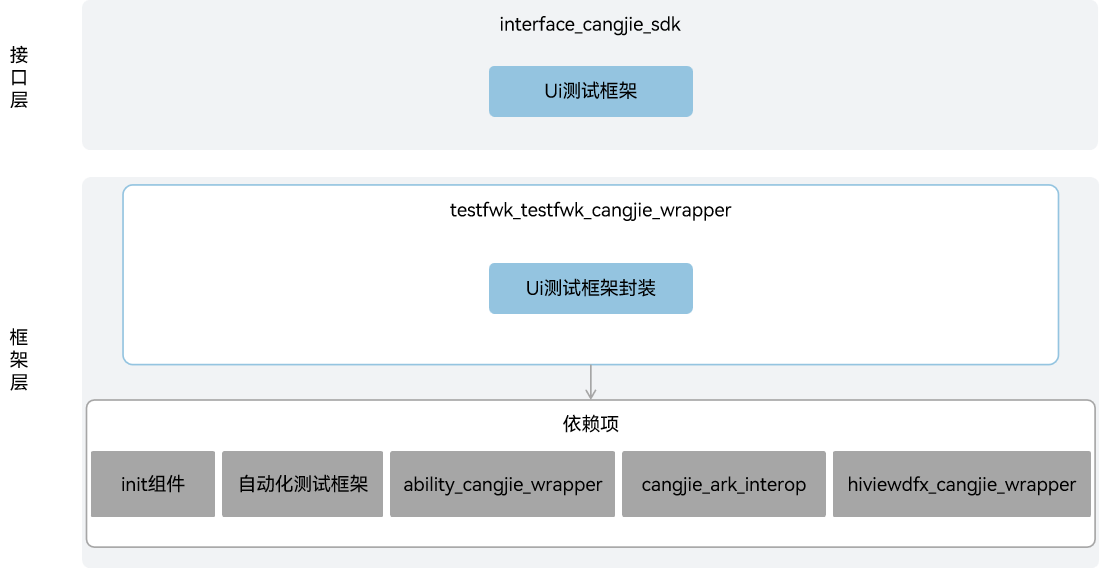
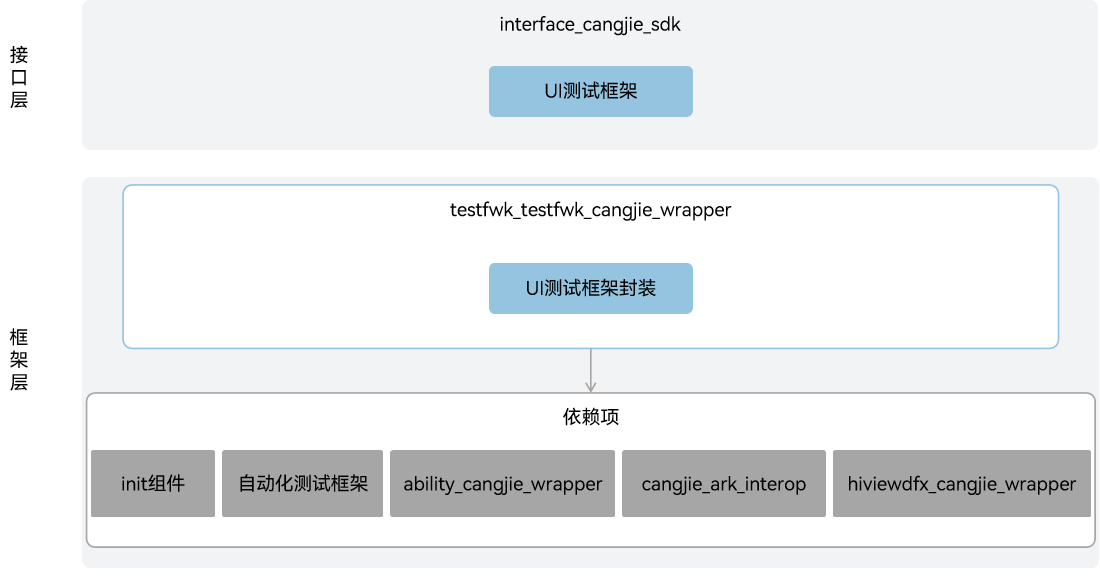
fix readme

diff --git a/README_zh.md b/README_zh.md
@@ -2,7 +2,7 @@
 
 ## 简介
 
-测试框架仓颉封装是在OpenHarmony上面向开发者使用仓颉语言进行应用开发时提供的一套Ui测试框架框架。当前开放的测试框架仓颉封装仅支持standard设备。
+测试框架仓颉封装是在OpenHarmony上面向开发者使用仓颉语言进行应用开发时提供的一套UI测试框架。当前开放的测试框架仓颉封装仅支持standard设备。
 
 ## 系统架构
 
@@ -13,21 +13,21 @@
 如架构图所示：
 
 接口层：
-- Ui测试框架：面向开发者提供查找和操作界面控件的能力，支持用户开发基于界面操作的自动化测试脚本。
-  - Driver: Ui测试的入口，面向开发者提供检查控件存在性、查找控件，注入按键，单击坐标，滑动控件，手势操作，截图等接口能力。
-  - On: 面向开发者提供提供了丰富的控件特征描述（文本、id、类型等）接口能力，用来匹配查找要操作或检视的目标控件。支持匹配单属性和匹配多属性组合，控件属性支持多种匹配模式以及支持相对定位控件。
-  - Component: 表示UI界面上的一个控件，一般是通过Driver.findComponent(on)方法查找到的，面向开发者提供获取控件属性，单击控件，滑动查找，注入文本等接口能力。
-  - UiWindow: 表示UI界面上的一个窗口，一般是通过Driver.findWindow(WindowFilter)方法查找到的，面向开发者提供获取窗口属性，进行窗口拖动、调整窗口大小等接口能力。
+- UI测试框架：面向开发者提供查找和操作界面控件的能力，支持用户开发基于界面操作的自动化测试脚本。
+  - Driver: UI测试的入口，面向开发者提供检查控件存在性、查找控件，注入按键，单击坐标，滑动控件，手势操作，截图等接口能力。
+  - On: 面向开发者提供提供了丰富的控件特征描述（文本、id、类型等）接口能力，用来匹配查找要操作或检视的目标控件。支持匹配单属性和匹配多属性组合以及支持相对定位控件。
+  - Component: 表示UI界面上的一个控件，一般是通过Driver.findComponent(on: On)方法查找到的，面向开发者提供获取控件属性，单击控件，滑动查找，注入文本等接口能力。
+  - UiWindow: 表示UI界面上的一个窗口，一般是通过Driver.findWindow(filter: WindowFilter)方法查找到的，面向开发者提供获取窗口属性，进行窗口拖动、调整窗口大小等接口能力。
 
 框架层：
-- Ui测试框架封装：基于底层自动化测试框架的Ui测试基础能力实现Ui测试框架封装，通过Driver类、On类、Component类以及UiWindow类提供一套完整的Ui测试框架。
+- UI测试框架封装：基于底层自动化测试框架的UI测试基础能力实现UI测试框架封装，通过Driver类、On类、Component类以及UiWindow类提供一套完整的UI测试框架。
 
 架构图中依赖部件引入说明：
-- 自动化测试框架：依赖自动化测试框架部件提供的UI测试基础能力，用于框架层能力的实现。
-- 启动子系统: 依赖启动子系统提供的系统参数查询能力，用于判断当前环境是否支持测试。
-- ability_cangjie_wrapper：依赖ability_cangjie_wrapper提供的自动化测试框架管理能力，用于UI测试框架的初始化。
-- hiviewdfx_cangjie_wrapper：依赖hiviewdfx_cangjie_wrapper提供的HiLog日志能力，用于在关键路径打印日志。
-- cangjie_ark_interop：依赖cangjie_ark_interop提供的仓颉注解类定义和BusinessException异常类定义，用于对API进行标注，及在错误分支向用户抛出异常。
+- 自动化测试框架：UI测试框架封装的实现依赖自动化测试框架部件提供的UI测试基础能力。
+- init组件: UI测试框架封装依赖init组件提供的系统参数查询能力，用于判断当前环境是否支持测试。
+- ability_cangjie_wrapper：UI测试框架封装依赖ability_cangjie_wrapper提供的自动化测试框架管理能力，用于框架的初始化。
+- hiviewdfx_cangjie_wrapper：UI测试框架封装依赖hiviewdfx_cangjie_wrapper提供的HiLog日志能力，用于在关键路径打印日志。
+- cangjie_ark_interop：UI测试框架封装依赖cangjie_ark_interop提供的仓颉注解类定义和BusinessException异常类定义，用于对API进行标注，及在错误分支向用户抛出异常。
 
 ## 目录
 
@@ -46,15 +46,14 @@ test/testfwk/testfwk_cangjie_wrapper
 
 当前测试框架仓颉封装提供了以下功能：
 
-- Ui测试框架。
+- UI测试框架。
 
 UI测试相关的接口请参见[UI测试API文档](https://gitcode.com/openharmony-sig/arkcompiler_cangjie_ark_interop/blob/master/doc/API_Reference/source_zh_cn/apis/TestKit/cj-apis-ui_test.md)，相关开发指导请参见[自动化测试框架使用指南](https://gitcode.com/openharmony-sig/arkcompiler_cangjie_ark_interop/blob/master/doc/Dev_Guide/source_zh_cn/application-test/cj-arkxtest-guidelines.md)。
 
 ## 约束
 
-与ArkTs提供的API能力相比，有以下差异：
+与ArkTS提供的API能力相比，有以下差异：
 
-- 单元测试框架基于仓颉语言自带的单元测试库[std.unittest]((https://gitcode.com/Cangjie/cangjie_runtime/blob/main/README_zh.md))实现。
 - 暂不支持白盒性能测试框架。
 
 ## 参与贡献
